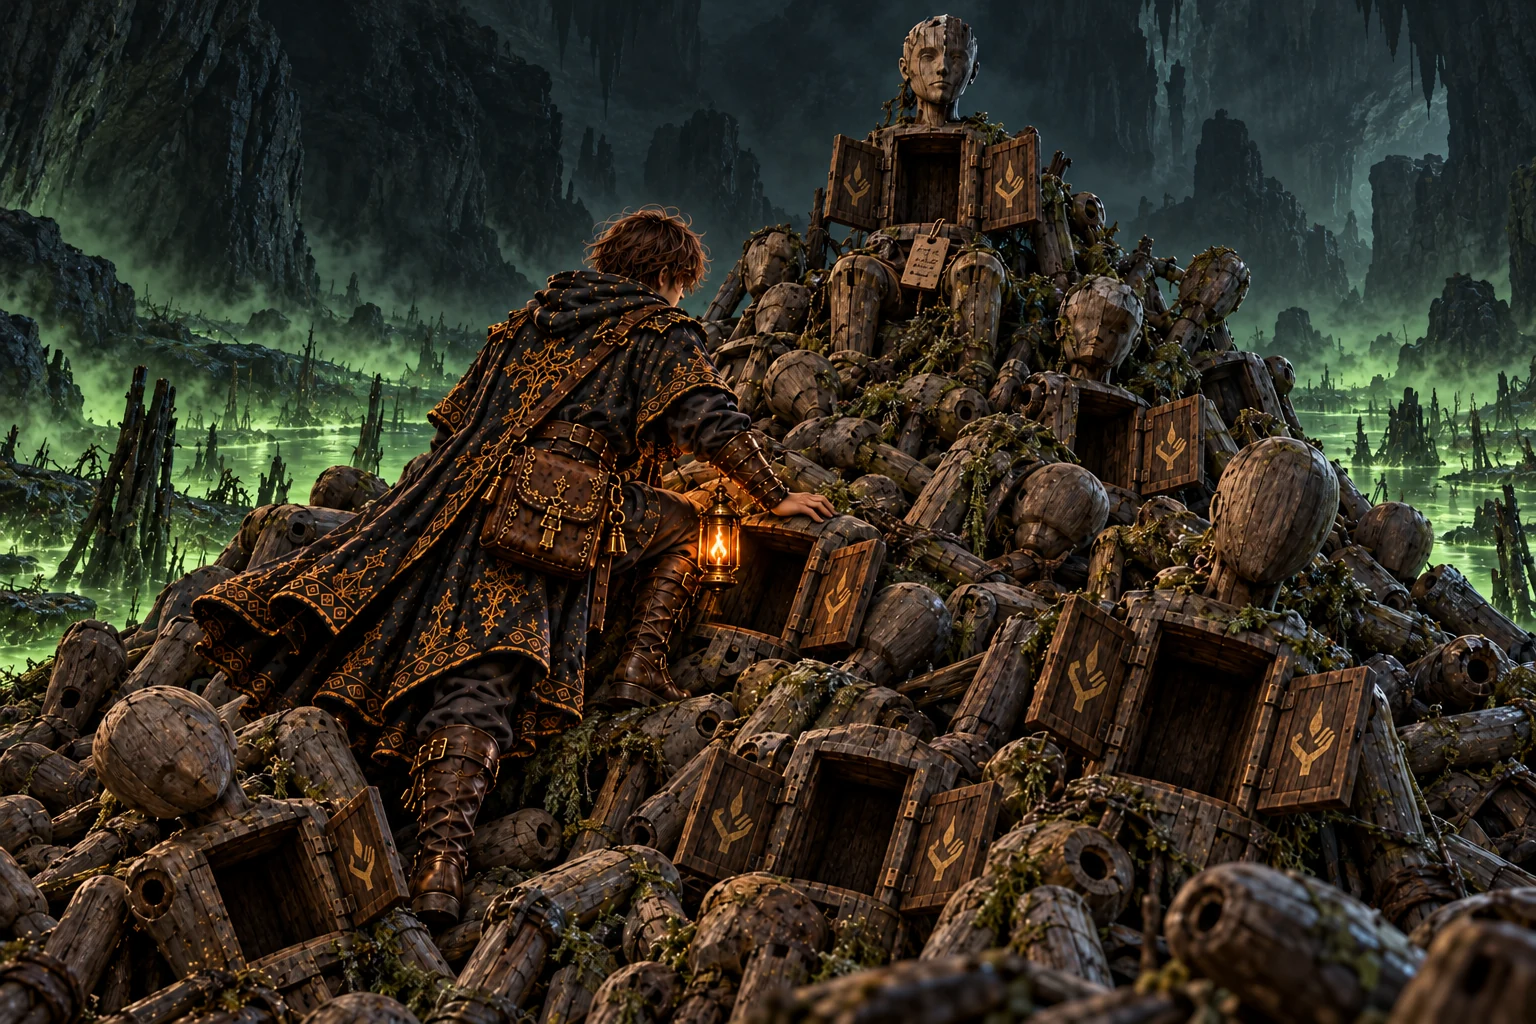
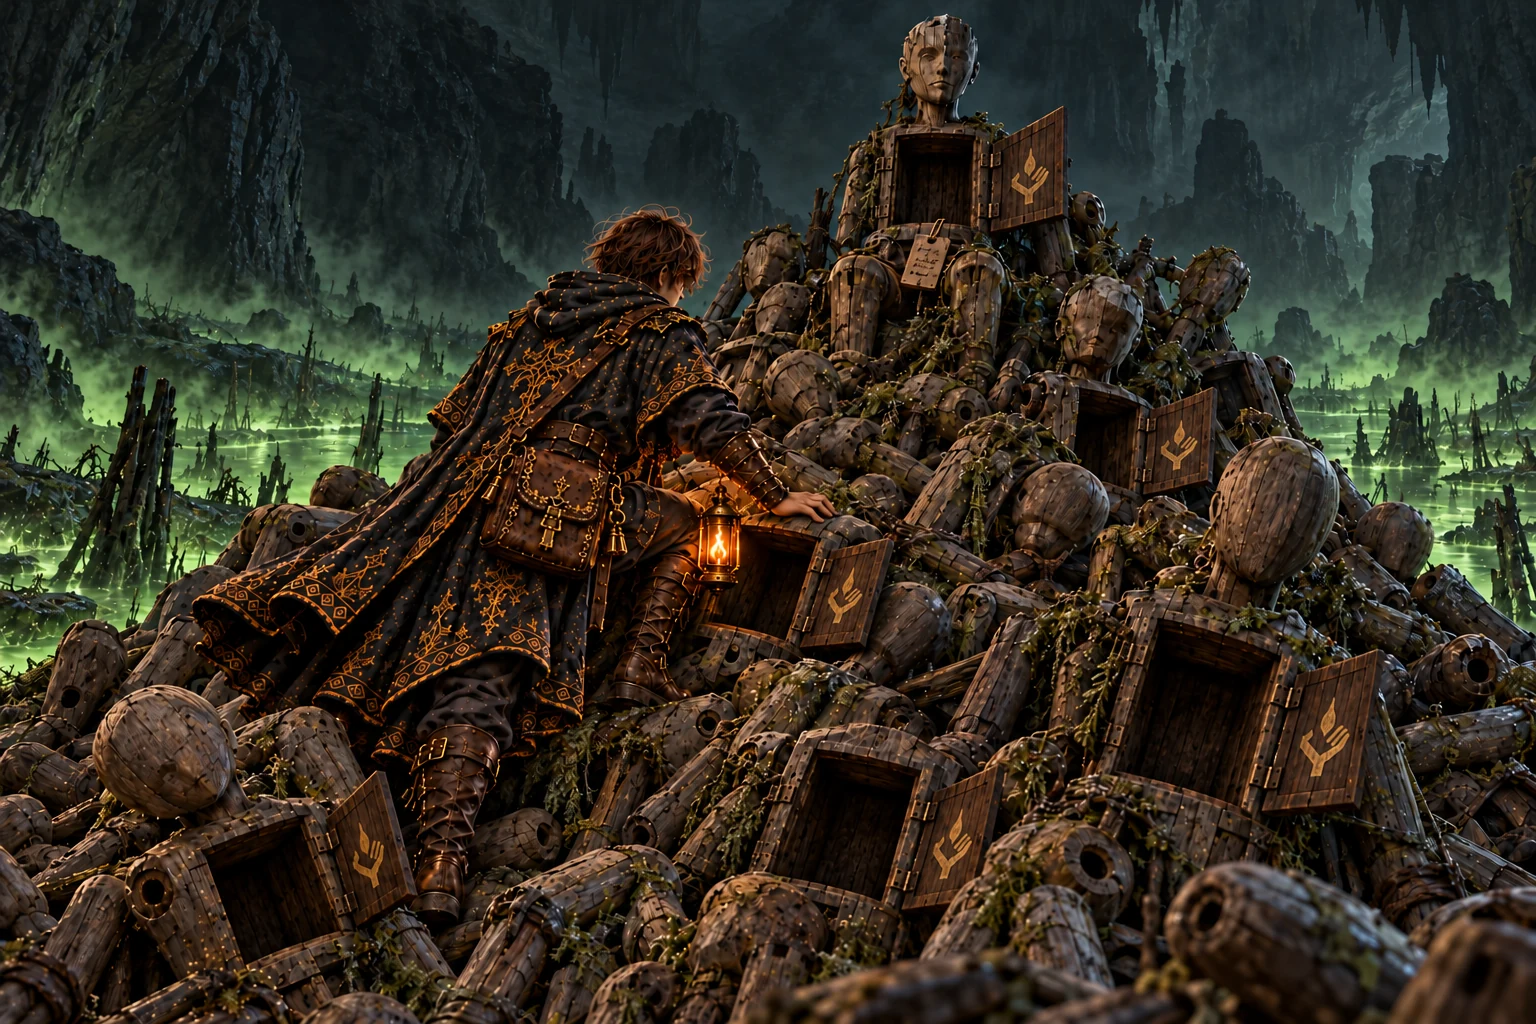
仕上がらなかった兄弟の胸の扉を片開きに修正

diff --git a/docs/art/codex-story-art-brief.md b/docs/art/codex-story-art-brief.md
@@ -845,8 +845,9 @@ The same cold throne room. The very old king, lap blanket over his knees, stares
 
 **w27_crest「仕上がらなかった兄弟」** (手がかり / 迷宮「器の捨て場」)
 - 要点: 谷の奥に作りかけの器の山 (腕の無いもの・顔の無いもの・胸の扉が開いたままのもの)。どれも三百年より古い。胸の扉の内側に灯を掌に載せた手の印。山の頂に一体だけ、きれいに座らされた器 (顔は彫りかけ、胸は空)、膝に師の札。
+- 2026-10-17 ユーザー指定の修正: 捨てられた人業の胸の扉は、すべて一枚の片開き。構図・人物・光を保ち、両開きの扉を直した (済)。
 ```text
-A deep valley by the poison swamp, piled high with ancient unfinished wooden dolls: some armless, some faceless with blank heads, many with small chest doors hanging open, and inside each open door the same carved crest — a palm-up hand holding a flame. Everything is grey with age and moss. At the very top of the pile, one doll sits neatly upright, its face only half-carved, its chest empty, a wooden tag resting on its knees. The apprentice climbs the heap toward it. Green miasma, dead reeds.
+A deep valley by the poison swamp, piled high with ancient unfinished wooden dolls: some armless, some faceless with blank heads, many with small chest doors hanging open, and inside each open door the same carved crest — a palm-up hand holding a flame. Every chest hatch has exactly one full-width wooden door panel hinged on one side only, never two opposing leaves. Everything is grey with age and moss. At the very top of the pile, one doll sits neatly upright, its face only half-carved, its chest empty, a wooden tag resting on its knees. The apprentice climbs the heap toward it. Green miasma, dead reeds.
 ```
 
 **report_w27「笑わない宰相」** (報告)

diff --git a/art/story-review/review/chapter7.md b/art/story-review/review/chapter7.md
@@ -102,6 +102,7 @@
 **指示書 (4章)**
 
 - 要点: 谷の奥に作りかけの器の山 (腕の無いもの・顔の無いもの・胸の扉が開いたままのもの)。どれも三百年より古い。胸の扉の内側に灯を掌に載せた手の印。山の頂に一体だけ、きれいに座らされた器 (顔は彫りかけ、胸は空)、膝に師の札。
+- 2026-10-17 ユーザー指定の修正: 捨てられた人業の胸の扉は、すべて一枚の片開き。構図・人物・光を保ち、両開きの扉を直した (済)。
 
 <a name="report_w27"></a>
 
